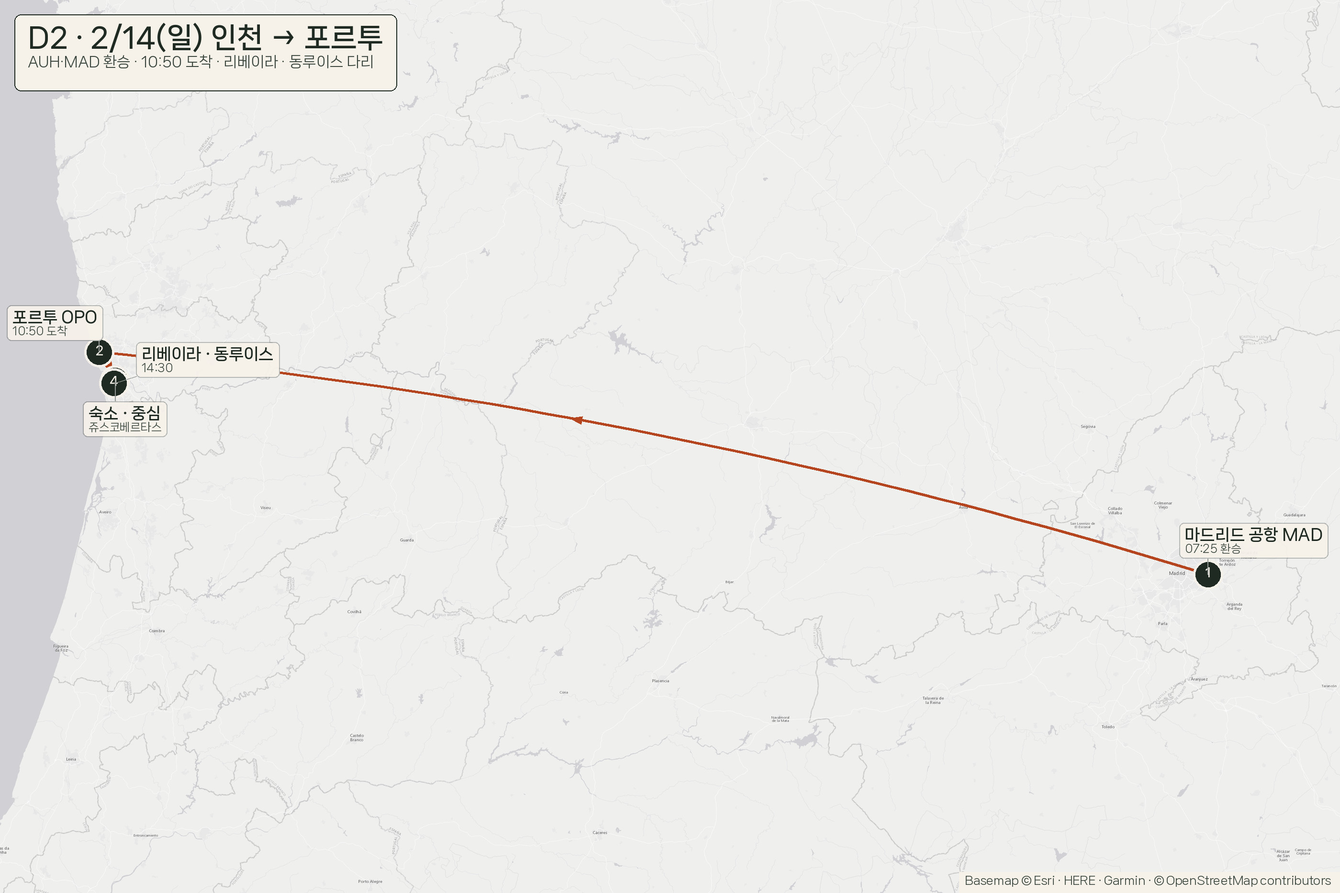
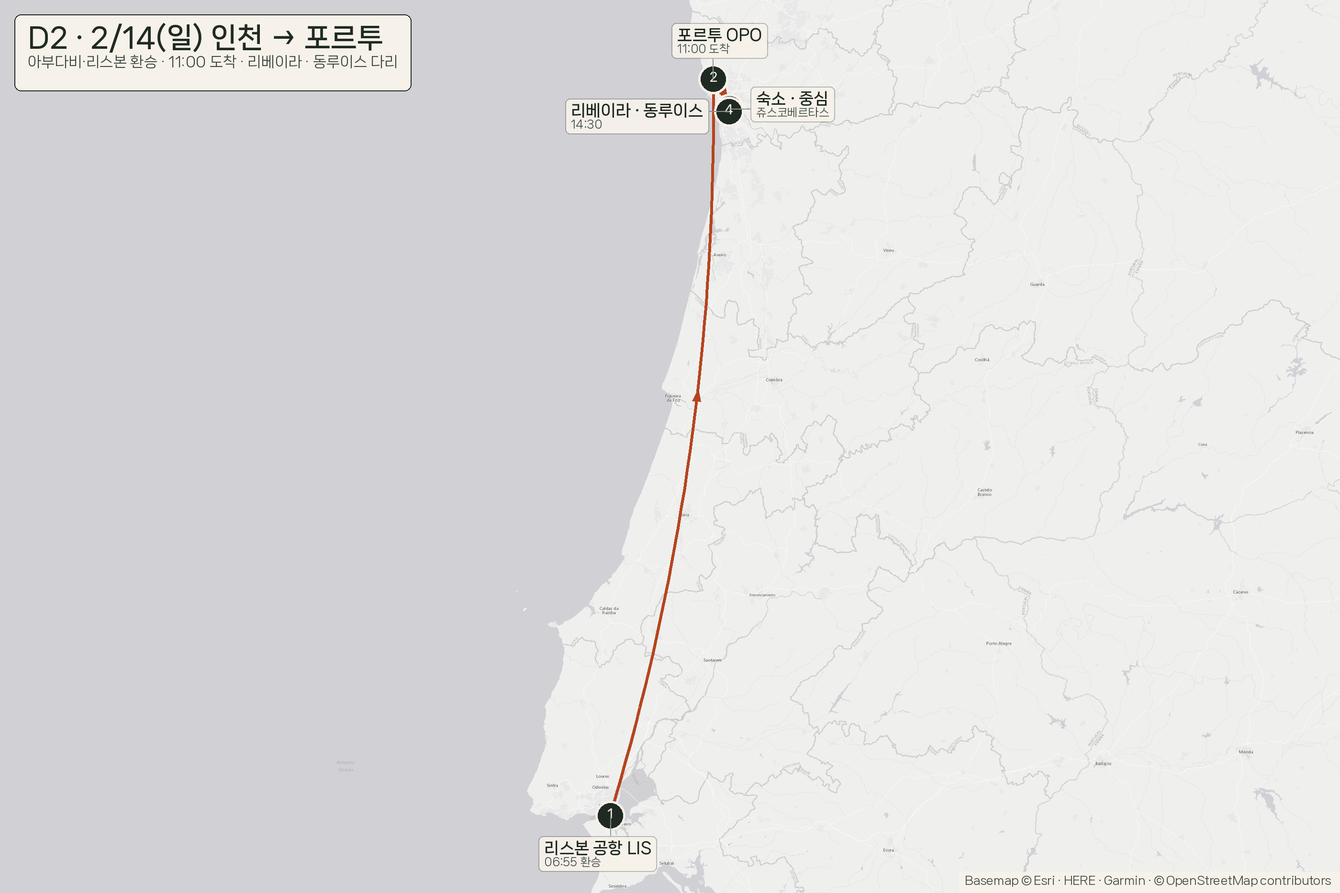
v17.1: 마드리드 경유 제거(ICN→AUH→LIS→OPO) · 오픈조 3,768,692 · 지도 갱신
Discord: https://discord.com/channels/1558830378104529049/1571096194325680131

diff --git a/index.html b/index.html
@@ -159,14 +159,14 @@ footer{border-top:3px solid var(--rule-strong); margin-top:var(--s-8); padding-t
   <h1>포르투에서 시작해 <em>남쪽으로</em>,<br>바르셀로나에서 비행기로</h1>
   <p class="lede">포르투에 내려 도루강의 노을을 보고, 리스본에서 에그타르트로 아침을 열고,
     세비야에서 알카사르를 걷고, 그라나다에서 알함브라를 오르고, 바르셀로나에서 가우디를 만나고 돌아와요.
-    마드리드는 공항 환승만 하고 도시에는 들어가지 않아요.</p>
+    <b>마드리드는 경유하지도 않아요</b> — 아부다비·리스본을 거쳐 포르투로 들어가요.</p>
   <figure class="bleed reveal">
     <img src="img/00-전체동선.jpg" alt="전체 동선 지도 — 포르투·리스본·세비야·그라나다·바르셀로나">
   </figure>
   <dl class="figures">
-    <div><dt>총액 · 2인</dt><dd>7,573,533<small>원 (1인 3,786,766)</small></dd></div>
+    <div><dt>총액 · 2인</dt><dd>7,594,133<small>원 (1인 3,797,066)</small></dd></div>
     <div><dt>현지 지출</dt><dd>3,425,441<small>항공 제외</small></dd></div>
-    <div><dt>항공 · 2인</dt><dd>3,748,092<small>가는편 + 오는편</small></dd></div>
+    <div><dt>항공 · 2인</dt><dd>3,768,692<small>가는편 + 오는편</small></dd></div>
     <div><dt>일수</dt><dd>9박 10일<small>5도시 · 이동 6회</small></dd></div>
     <div><dt>환율</dt><dd>1,551<small>원 / € (3개월 평균)</small></dd></div>
   </dl>
@@ -178,7 +178,7 @@ footer{border-top:3px solid var(--rule-strong); margin-top:var(--s-8); padding-t
   <div class="route"><div class="stop">
         <span class="when">2/14–16 · 2박</span>
         <span class="name">포르투</span>
-        <span class="note">MAD 환승 1h15 · 리베이라 · 포트와인</span>
+        <span class="note">AUH·LIS 환승 · 리베이라 · 포트와인</span>
         <span class="price">78,757 <em>원/박</em></span>
       </div><div class="stop">
         <span class="when">2/16–17 · 1박</span>
@@ -214,11 +214,11 @@ footer{border-top:3px solid var(--rule-strong); margin-top:var(--s-8); padding-t
         <td class="w"><a href="itinerary.html#day-1">인천 → 포르투</a>
           <small>ICN 18:00 출발 · 아부다비 경유</small></td>
         <td class="dt">2/13 (토)</td>
-        <td class="num">1,691,400</td>
+        <td class="num">1,712,000</td>
       </tr><tr>
         <td class="t">D2 · 2/14(일)</td>
         <td class="w"><a href="itinerary.html#day-2">포르투 — 도착</a>
-          <small>MAD 환승 → OPO 10:50 · 리베이라</small></td>
+          <small>AUH·LIS 환승 → OPO 11:00 · 리베이라</small></td>
         <td class="dt">2/14 (일)</td>
         <td class="num">219,757</td>
       </tr><tr>
@@ -282,13 +282,13 @@ footer{border-top:3px solid var(--rule-strong); margin-top:var(--s-8); padding-t
 <section class="block">
   <div class="wrap"><h2>날짜별 지도 — 크게 보기</h2>
   <p class="sub">각 날짜의 동선을 지도 위에 번호로 얹었어요. 누르면 그날의 시각표로 넘어가요.</p></div>
-  <div class="wrap"><div class="gallery"><figure><a href="itinerary.html#day-2"><img src="img/D02-포르투도착.jpg" alt="D2 · 2/14(일) 2/14 (일) 포르투 — 도착 지도" loading="lazy"></a><figcaption>D2 · 2/14 (일) — 포르투 — 도착<small>MAD 환승 → OPO 10:50 · 리베이라</small></figcaption></figure><figure><a href="itinerary.html#day-3"><img src="img/D03-포르투.jpg" alt="D3 · 2/15(월) 2/15 (월) 포르투 — 위에서 아래로 지도" loading="lazy"></a><figcaption>D3 · 2/15 (월) — 포르투 — 위에서 아래로<small>렐루 서점 · 모루 정원 일몰 · 유람선</small></figcaption></figure><figure><a href="itinerary.html#day-4"><img src="img/D04-포르투리스본.jpg" alt="D4 · 2/16(화) 2/16 (화) 포르투 → 리스본 지도" loading="lazy"></a><figcaption>D4 · 2/16 (화) — 포르투 → 리스본<small>CP 기차 3h → 리스본 · 벨렝 · 파두</small></figcaption></figure><figure><a href="itinerary.html#day-5"><img src="img/D05-리스본세비야.jpg" alt="D5 · 2/17(수) 2/17 (수) 리스본 → 세비야 지도" loading="lazy"></a><figcaption>D5 · 2/17 (수) — 리스본 → 세비야<small>알사 버스 6h → 세비야 · 대성당</small></figcaption></figure><figure><a href="itinerary.html#day-6"><img src="img/D06-세비야.jpg" alt="D6 · 2/18(목) 2/18 (목) 세비야 — 알카사르 & 스페인 광장 지도" loading="lazy"></a><figcaption>D6 · 2/18 (목) — 세비야 — 알카사르 & 스페인 광장<small>레알 알카사르 · 스페인 광장 · 트리아나</small></figcaption></figure><figure><a href="itinerary.html#day-7"><img src="img/D07-세비야그라나다.jpg" alt="D7 · 2/19(금) 2/19 (금) 세비야 → 그라나다 지도" loading="lazy"></a><figcaption>D7 · 2/19 (금) — 세비야 → 그라나다<small>알사 버스 3h → 그라나다 · 알바이신</small></figcaption></figure><figure><a href="itinerary.html#day-8"><img src="img/D08-그라나다알함브라.jpg" alt="D8 · 2/20(토) 2/20 (토) 그라나다 — 알함브라 지도" loading="lazy"></a><figcaption>D8 · 2/20 (토) — 그라나다 — 알함브라<small>알함브라 나사리 궁전 · 헤네랄리페</small></figcaption></figure><figure><a href="itinerary.html#day-9"><img src="img/D09-그라나다.jpg" alt="D9 · 2/21(일) 2/21 (일) 그라나다 — 알바이신 하루 지도" loading="lazy"></a><figcaption>D9 · 2/21 (일) — 그라나다 — 알바이신 하루<small>알바이신 하루 · 산니콜라스 전망대</small></figcaption></figure><figure><a href="itinerary.html#day-10"><img src="img/D10-그라나다바르셀로나.jpg" alt="D10 2/22 (월) 그라나다 → 바르셀로나 지도" loading="lazy"></a><figcaption>D10 · 2/22 (월) — 그라나다 → 바르셀로나<small>GRX 09:05 → BCN · 사그라다 · 구엘</small></figcaption></figure><figure><a href="itinerary.html#day-11"><img src="img/D11-바르셀로나출국.jpg" alt="D11 2/23 (화) 바르셀로나 → 인천 지도" loading="lazy"></a><figcaption>D11 · 2/23 (화) — 바르셀로나 → 인천<small>람블라스 · 17:55 출국 → 2/24 17:20 인천</small></figcaption></figure></div></div>
+  <div class="wrap"><div class="gallery"><figure><a href="itinerary.html#day-2"><img src="img/D02-포르투도착.jpg" alt="D2 · 2/14(일) 2/14 (일) 포르투 — 도착 지도" loading="lazy"></a><figcaption>D2 · 2/14 (일) — 포르투 — 도착<small>AUH·LIS 환승 → OPO 11:00 · 리베이라</small></figcaption></figure><figure><a href="itinerary.html#day-3"><img src="img/D03-포르투.jpg" alt="D3 · 2/15(월) 2/15 (월) 포르투 — 위에서 아래로 지도" loading="lazy"></a><figcaption>D3 · 2/15 (월) — 포르투 — 위에서 아래로<small>렐루 서점 · 모루 정원 일몰 · 유람선</small></figcaption></figure><figure><a href="itinerary.html#day-4"><img src="img/D04-포르투리스본.jpg" alt="D4 · 2/16(화) 2/16 (화) 포르투 → 리스본 지도" loading="lazy"></a><figcaption>D4 · 2/16 (화) — 포르투 → 리스본<small>CP 기차 3h → 리스본 · 벨렝 · 파두</small></figcaption></figure><figure><a href="itinerary.html#day-5"><img src="img/D05-리스본세비야.jpg" alt="D5 · 2/17(수) 2/17 (수) 리스본 → 세비야 지도" loading="lazy"></a><figcaption>D5 · 2/17 (수) — 리스본 → 세비야<small>알사 버스 6h → 세비야 · 대성당</small></figcaption></figure><figure><a href="itinerary.html#day-6"><img src="img/D06-세비야.jpg" alt="D6 · 2/18(목) 2/18 (목) 세비야 — 알카사르 & 스페인 광장 지도" loading="lazy"></a><figcaption>D6 · 2/18 (목) — 세비야 — 알카사르 & 스페인 광장<small>레알 알카사르 · 스페인 광장 · 트리아나</small></figcaption></figure><figure><a href="itinerary.html#day-7"><img src="img/D07-세비야그라나다.jpg" alt="D7 · 2/19(금) 2/19 (금) 세비야 → 그라나다 지도" loading="lazy"></a><figcaption>D7 · 2/19 (금) — 세비야 → 그라나다<small>알사 버스 3h → 그라나다 · 알바이신</small></figcaption></figure><figure><a href="itinerary.html#day-8"><img src="img/D08-그라나다알함브라.jpg" alt="D8 · 2/20(토) 2/20 (토) 그라나다 — 알함브라 지도" loading="lazy"></a><figcaption>D8 · 2/20 (토) — 그라나다 — 알함브라<small>알함브라 나사리 궁전 · 헤네랄리페</small></figcaption></figure><figure><a href="itinerary.html#day-9"><img src="img/D09-그라나다.jpg" alt="D9 · 2/21(일) 2/21 (일) 그라나다 — 알바이신 하루 지도" loading="lazy"></a><figcaption>D9 · 2/21 (일) — 그라나다 — 알바이신 하루<small>알바이신 하루 · 산니콜라스 전망대</small></figcaption></figure><figure><a href="itinerary.html#day-10"><img src="img/D10-그라나다바르셀로나.jpg" alt="D10 2/22 (월) 그라나다 → 바르셀로나 지도" loading="lazy"></a><figcaption>D10 · 2/22 (월) — 그라나다 → 바르셀로나<small>GRX 09:05 → BCN · 사그라다 · 구엘</small></figcaption></figure><figure><a href="itinerary.html#day-11"><img src="img/D11-바르셀로나출국.jpg" alt="D11 2/23 (화) 바르셀로나 → 인천 지도" loading="lazy"></a><figcaption>D11 · 2/23 (화) — 바르셀로나 → 인천<small>람블라스 · 17:55 출국 → 2/24 17:20 인천</small></figcaption></figure></div></div>
 </section>
 
 <section class="block wrap">
   <div class="note">
-    <b>2/13 밤 출국 → 2/24 인천 도착.</b> 오픈조라 들어가는 곳(포르투)과 나오는 곳(바르셀로나)이 달라 국제선이 <b>2인 3,748,092원</b>이에요.
-    포르투 → 리스본 → 세비야 → 그라나다 → 바르셀로나로 한 방향으로 내려가는 <b>9박 10일</b> — 마드리드는 공항 환승만 해요.
+    <b>2/13 밤 출국 → 2/24 인천 도착.</b> 오픈조라 들어가는 곳(포르투)과 나오는 곳(바르셀로나)이 달라 국제선이 <b>2인 3,768,692원</b>이에요.
+    포르투 → 리스본 → 세비야 → 그라나다 → 바르셀로나로 한 방향으로 내려가는 <b>9박 10일</b> — 마드리드는 들르지 않아요.
   </div>
 </section>
 
@@ -305,7 +305,8 @@ footer{border-top:3px solid var(--rule-strong); margin-top:var(--s-8); padding-t
         <li><b>숙소는 11/14 재조회 값</b>이에요 — 9박 합계 <b>798,790원</b>. 에어비앤비·아고다는 이번 조회에서 차단돼 구글 호텔만 반영했어요.</li>
         <li><b>리스본 → 세비야 구간</b>이 이 루트의 유일한 약점이에요 — 버스 6시간(2인 11만원 추정). 비행은 22만원대라 버스를 골랐어요.</li>
         <li><b>알함브라 나사리 궁전은 2/20 오전</b>(토요일)으로 잡았어요 — 주말이라 매진이 빨라 티켓 오픈 즉시 예약이 안전해요.</li>
-        <li><b>오픈조는 왕복보다 비싸요</b> — 2인 3,748,092원(왕복 228만 대비 +147만). 대신 마드리드로 되돌아가지 않아 마지막 날이 편해요.</li>
+        <li><b>오픈조는 왕복보다 비싸요</b> — 2인 3,768,692원. 대신 마드리드로 되돌아가지 않아 마지막 날이 편해요.</li>
+        <li><b>마드리드 경유편은 쓰지 않았어요</b> — 마드리드 경유편이 1,606,400원으로 2만원 싸지만, "마드리드 안 들름" 조건에 맞춰 아부다비+리스본 경유(1,627,000)를 골랐어요.</li>
       </ul>
     </div>
   </div>
@@ -318,19 +319,19 @@ footer{border-top:3px solid var(--rule-strong); margin-top:var(--s-8); padding-t
       <table class="ledger">
         <caption>2인 기준 · 상세는 일차별 일정</caption>
         <thead><tr><th scope="col">항목</th><th class="num" scope="col">2인</th></tr></thead>
-        <tbody><tr><td>항공 (마드리드 왕복, 11/14 실조회)</td><td class="num">3,748,092</td></tr><tr><td>숙박 9박</td><td class="num">798,790</td></tr><tr><td>식비 10일 (실제 메뉴)</td><td class="num">1,561,000</td></tr><tr><td>입장료·시내교통</td><td class="num">633,000</td></tr><tr><td>도시 간 이동 (기차·항공·버스)</td><td class="num">432,651</td></tr><tr><td>여유·기념품</td><td class="num">400,000</td></tr><tr class="sum"><td>합계 — 2인</td><td class="num">7,573,533</td></tr></tbody>
+        <tbody><tr><td>항공 (마드리드 왕복, 11/14 실조회)</td><td class="num">3,768,692</td></tr><tr><td>숙박 9박</td><td class="num">798,790</td></tr><tr><td>식비 10일 (실제 메뉴)</td><td class="num">1,561,000</td></tr><tr><td>입장료·시내교통</td><td class="num">633,000</td></tr><tr><td>도시 간 이동 (기차·항공·버스)</td><td class="num">432,651</td></tr><tr><td>여유·기념품</td><td class="num">400,000</td></tr><tr class="sum"><td>합계 — 2인</td><td class="num">7,594,133</td></tr></tbody>
       </table>
-      <p class="sub">1,000만원 상한 대비 여유는 2,426,467원이에요. 환율이 100원 움직이면 2인 예산은 약 66만원 달라져요.</p>
+      <p class="sub">1,000만원 상한 대비 여유는 2,405,867원이에요. 환율이 100원 움직이면 2인 예산은 약 66만원 달라져요.</p>
     </div>
     <div>
       <h2>발권 시점 — 지금이 적기예요</h2>
-      <p class="sub">2/13 ICN→OPO + 2/23 BCN→ICN 오픈조가 지금 <b>2인 3,748,092원</b>이에요.
+      <p class="sub">2/13 ICN→OPO + 2/23 BCN→ICN 오픈조가 지금 <b>2인 3,768,692원</b>이에요.
         출발 6~8주 전부터 값이 오르는 구간이라, 지금 결제가 가장 편해요.</p>
       <table class="ledger">
         <caption>11월 항공 (2인, 오픈조)</caption>
         <thead><tr><th scope="col">상황</th><th class="num" scope="col">가격</th></tr></thead>
         <tbody>
-          <tr><td>지금 (2026-11-14 실조회)</td><td class="num">3,748,092</td></tr>
+          <tr><td>지금 (2026-11-14 실조회)</td><td class="num">3,768,692</td></tr>
           <tr><td>특가 일부 소진</td><td class="num">390~410만</td></tr>
           <tr><td>성수 진입</td><td class="num">440만</td></tr>
         </tbody>
@@ -349,9 +350,9 @@ footer{border-top:3px solid var(--rule-strong); margin-top:var(--s-8); padding-t
     <caption>여행 + 쇼핑 (2인)</caption>
     <thead><tr><th scope="col">후보</th><th class="num" scope="col">쇼핑액</th>
       <th class="num" scope="col">여행+쇼핑</th><th class="num" scope="col">1,000만</th><th class="num" scope="col">1,200만</th></tr></thead>
-    <tbody><tr><td data-label="후보">없음</td><td class="num" data-label="쇼핑액">0</td><td class="num" data-label="여행+쇼핑">7,573,533</td><td class="num" data-label="1,000만 이내">가능</td><td class="num" data-label="1,200만 이내">가능</td></tr><tr><td data-label="후보">까르띠에 다무르 펜던트 SM  (€1,520)</td><td class="num" data-label="쇼핑액">2,103,938</td><td class="num" data-label="여행+쇼핑">9,677,471</td><td class="num" data-label="1,000만 이내">가능</td><td class="num" data-label="1,200만 이내">가능</td></tr><tr><td data-label="후보">까르띠에 트리니티 이어링 플레인  (€2,040)</td><td class="num" data-label="쇼핑액">2,823,707</td><td class="num" data-label="여행+쇼핑">10,397,240</td><td class="num" data-label="1,000만 이내">—</td><td class="num" data-label="1,200만 이내">가능</td></tr><tr><td data-label="후보">불가리 세르펜티 바이퍼 링  (€2,770)</td><td class="num" data-label="쇼핑액">3,834,151</td><td class="num" data-label="여행+쇼핑">11,407,684</td><td class="num" data-label="1,000만 이내">—</td><td class="num" data-label="1,200만 이내">가능</td></tr><tr><td data-label="후보">반클리프 알함브라 펜던트 오닉스  (€3,100)</td><td class="num" data-label="쇼핑액">4,290,927</td><td class="num" data-label="여행+쇼핑">11,864,460</td><td class="num" data-label="1,000만 이내">—</td><td class="num" data-label="1,200만 이내">가능</td></tr><tr class=sum><td data-label="후보">까르띠에 트리니티 이어링 클래식  (€3,800)</td><td class="num" data-label="쇼핑액">5,259,846</td><td class="num" data-label="여행+쇼핑">12,833,379</td><td class="num" data-label="1,000만 이내">—</td><td class="num" data-label="1,200만 이내">초과</td></tr></tbody>
+    <tbody><tr><td data-label="후보">없음</td><td class="num" data-label="쇼핑액">0</td><td class="num" data-label="여행+쇼핑">7,594,133</td><td class="num" data-label="1,000만 이내">가능</td><td class="num" data-label="1,200만 이내">가능</td></tr><tr><td data-label="후보">까르띠에 다무르 펜던트 SM  (€1,520)</td><td class="num" data-label="쇼핑액">2,103,938</td><td class="num" data-label="여행+쇼핑">9,698,071</td><td class="num" data-label="1,000만 이내">가능</td><td class="num" data-label="1,200만 이내">가능</td></tr><tr><td data-label="후보">까르띠에 트리니티 이어링 플레인  (€2,040)</td><td class="num" data-label="쇼핑액">2,823,707</td><td class="num" data-label="여행+쇼핑">10,417,840</td><td class="num" data-label="1,000만 이내">—</td><td class="num" data-label="1,200만 이내">가능</td></tr><tr><td data-label="후보">불가리 세르펜티 바이퍼 링  (€2,770)</td><td class="num" data-label="쇼핑액">3,834,151</td><td class="num" data-label="여행+쇼핑">11,428,284</td><td class="num" data-label="1,000만 이내">—</td><td class="num" data-label="1,200만 이내">가능</td></tr><tr><td data-label="후보">반클리프 알함브라 펜던트 오닉스  (€3,100)</td><td class="num" data-label="쇼핑액">4,290,927</td><td class="num" data-label="여행+쇼핑">11,885,060</td><td class="num" data-label="1,000만 이내">—</td><td class="num" data-label="1,200만 이내">가능</td></tr><tr class=sum><td data-label="후보">까르띠에 트리니티 이어링 클래식  (€3,800)</td><td class="num" data-label="쇼핑액">5,259,846</td><td class="num" data-label="여행+쇼핑">12,853,979</td><td class="num" data-label="1,000만 이내">—</td><td class="num" data-label="1,200만 이내">초과</td></tr></tbody>
   </table>
-  <p class="sub">트리니티 이어링 클래식(€3,800)까지 넣으면 12,833,379원이라 절대 상한 1,200만원을 넘어요.
+  <p class="sub">트리니티 이어링 클래식(€3,800)까지 넣으면 12,853,979원이라 절대 상한 1,200만원을 넘어요.
     1,000만원 안에서 주얼리를 넣으시려면 트리니티 이어링 플레인(€2,040)까지가 한계예요.</p>
 </section>
 <section class="block wrap">

diff --git a/itinerary.html b/itinerary.html
@@ -201,8 +201,8 @@ body::after{
   <p class="lede">리스본에서 바르셀로나까지 네 도시를 아흐레에 담았어요. 하루에 이동 한 번, 관광 두 묶음.
     마지막 사흘은 바르셀로나에 통째로 남겨 두었고, 값의 근거도 줄마다 옆에 적어 두었어요.</p>
   <dl class="figures">
-    <div><dt>총액 · 2인</dt><dd>7,573,533<small>원 (1인 3,786,766)</small></dd></div>
-    <div><dt>현지 지출</dt><dd>4,329,633<small>항공 제외</small></dd></div>
+    <div><dt>총액 · 2인</dt><dd>7,594,133<small>원 (1인 3,797,066)</small></dd></div>
+    <div><dt>현지 지출</dt><dd>4,350,233<small>항공 제외</small></dd></div>
     <div><dt>항공 · 2인</dt><dd>2,843,900<small>가는편 + 오는편</small></dd></div>
     <div><dt>여유·기념품</dt><dd>400,000<small>일자별 합계에 없음</small></dd></div>
     <div><dt>환율</dt><dd>1,551<small>원 / € (3개월 평균)</small></dd></div>
@@ -239,13 +239,13 @@ body::after{
 <tr class=""><td class="t">15:00</td><td class="what">집 → 인천공항 (공항버스 2인)</td><td class="src">추정</td><td class="cost">30,000</td></tr>
 <tr class=""><td class="t">16:00</td><td class="what">공항 저녁 (커피·샌드위치)</td><td class="src">추정</td><td class="cost">20,000</td></tr>
 <tr class="free"><td class="t">17:00</td><td class="what">체크인 · 수하물 · 출국심사</td><td class="src"></td><td class="cost">—</td></tr>
-<tr class=""><td class="t">18:00</td><td class="what">ICN 출발 · <b>가는편 1,606,400원(2인)</b> · <a href="https://www.google.com/travel/flights?hl=ko&gl=kr&curr=KRW&q=Flights%20one%20way%20from%20ICN%20to%20OPO%20on%202027-02-13" target="_blank" rel="noopener">구글 항공권 2/13 ICN→OPO · 예약</a></td><td class="src">항공 조회(11/14)</td><td class="cost">1,606,400</td></tr>
+<tr class=""><td class="t">18:00</td><td class="what">ICN 출발 · <b>가는편 1,627,000원(2인)</b> · <a href="https://www.google.com/travel/flights?hl=ko&gl=kr&curr=KRW&q=Flights%20one%20way%20from%20ICN%20to%20OPO%20on%202027-02-13" target="_blank" rel="noopener">구글 항공권 2/13 ICN→OPO · 예약</a></td><td class="src">항공 조회(11/14)</td><td class="cost">1,627,000</td></tr>
 <tr class=""><td class="t">—</td><td class="what">기내식 두 끼 · 23:15 아부다비 도착</td><td class="src">추정</td><td class="cost">35,000</td></tr>
-<tr class="ledger-sum"><td></td><td>숙박 — · 식비 55,000 · 입장·이동 1,636,400</td><td></td><td class="cost">1,691,400</td></tr>
+<tr class="ledger-sum"><td></td><td>숙박 — · 식비 55,000 · 입장·이동 1,657,000</td><td></td><td class="cost">1,712,000</td></tr>
       </tbody>
     </table>
 
-    <p class="day-stamp"><span>이 날 합계</span><b>1,691,400</b></p>
+    <p class="day-stamp"><span>이 날 합계</span><b>1,712,000</b></p>
   </div>
 </article>
 
@@ -273,10 +273,10 @@ body::after{
       </thead>
       <tbody>
 <tr class="ledger-stay"><td class="t">—</td><td class="what"><span class="stay-label">숙박</span> 포르투 · 쥬스코베르타스 부티크 호텔 (4.4·351후기·중심)</td><td class="src">hotel-api 실조회(11/14)</td><td class="cost">78,757</td></tr>
-<tr class="free"><td class="t">02:35</td><td class="what">아부다비(AUH) 환승 3시간 20분</td><td class="src">항공 조회(11/14)</td><td class="cost">—</td></tr>
-<tr class="free"><td class="t">07:25</td><td class="what">마드리드(MAD) 도착 · 환승</td><td class="src">항공 조회(11/14)</td><td class="cost">—</td></tr>
-<tr class="free"><td class="t">10:35</td><td class="what">MAD → 포르투(OPO) 1시간 15분</td><td class="src">항공 조회(11/14)</td><td class="cost">—</td></tr>
-<tr class=""><td class="t">11:50</td><td class="what">포르투 도착 → 메트로 → 숙소 (짐 보관)</td><td class="src">공식 요금</td><td class="cost">6,000</td></tr>
+<tr class="free"><td class="t">02:00</td><td class="what">아부다비(AUH) 환승 2시간 45분</td><td class="src">항공 조회(11/14)</td><td class="cost">—</td></tr>
+<tr class="free"><td class="t">06:55</td><td class="what">리스본(LIS) 도착 · 환승 3시간 5분 (마드리드 경유 없음)</td><td class="src">항공 조회(11/14)</td><td class="cost">—</td></tr>
+<tr class="free"><td class="t">10:00</td><td class="what">LIS → 포르투(OPO) 1시간</td><td class="src">항공 조회(11/14)</td><td class="cost">—</td></tr>
+<tr class=""><td class="t">11:00</td><td class="what">포르투 도착 → 메트로 → 숙소 (짐 보관)</td><td class="src">공식 요금</td><td class="cost">6,000</td></tr>
 <tr class=""><td class="t">12:40</td><td class="what">점심 — 볼량 시장 식당가 (2인 €25)</td><td class="src">실제 메뉴</td><td class="cost">40,000</td></tr>
 <tr class="free"><td class="t">14:30</td><td class="what">리베이라 지구 · 동 루이스 1세 다리 상층</td><td class="src"></td><td class="cost">—</td></tr>
 <tr class="free"><td class="t">16:30</td><td class="what">숙소 체크인 · 짧게 휴식</td><td class="src">hotel-api 실조회(11/14)</td><td class="cost">—</td></tr>
@@ -668,9 +668,9 @@ body::after{
 <section class="tail wrap">
   <div>
     <h2>합계 맞추기</h2>
-    <p><b>일자별 합계</b> 7,173,533원 = 현지 4,329,633 + 항공 2,843,900.</p>
+    <p><b>일자별 합계</b> 7,194,133원 = 현지 4,350,233 + 항공 2,843,900.</p>
     <p><b>여유·기념품</b> 400,000원은 일자별 표에 없다(특정 날에 배정하지 않음).</p>
-    <p><b>총액</b> <b>7,573,533원</b> (1인 3,786,766).</p>
+    <p><b>총액</b> <b>7,594,133원</b> (1인 3,797,066).</p>
     <p>요약 페이지의 총액과 같은 값이에요.</p>
   </div>
   <div>

diff --git a/reservations.html b/reservations.html
@@ -118,16 +118,16 @@ tr.detail td{border-bottom:2px solid var(--rule-strong);padding-top:0}
 <tr>
   <td class="n">1</td>
   <td class="open"><b>2026-11-01</b><small>확인 시작</small></td>
-  <td class="what"><b>항공 인천 → 포르투 (ICN→OPO, 에티하드+에어유로파)</b><small>방문 2027-02-13 (토) 18:00</small></td>
+  <td class="what"><b>항공 인천 → 포르투 (ICN→OPO, 에티하드+TAP)</b><small>방문 2027-02-13 (토) 18:00</small></td>
   <td class="rule">발권 목표일 — 지금 결제하시면 돼요</td>
-  <td class="price">1,606,400 (2인 · 2026-11-14 조회)</td>
+  <td class="price">1,627,000 (2인 · 2026-11-14 조회)</td>
   <td class="site">google.com/travel/flights · etihad.com</td>
 </tr>
 <tr class="detail">
   <td></td>
   <td colspan="5">
     <p class="need"><b>준비물</b> — 여권 영문명 · 카드</p>
-    <p class="warn">2/13 18:00 ICN → AUH 23:15 → MAD 07:25 → <b>OPO 10:50</b>. 마드리드는 <b>환승만</b>이에요. 수하물이 포르투까지 직통인지 확인하세요.</p>
+    <p class="warn">2/13 18:00 ICN → AUH 23:15 → LIS 06:55 → <b>OPO 11:00</b>. <b>마드리드 경유 없음</b>. 리스본 환승 3시간 5분, 수하물 포르투 직통인지 확인하세요.</p>
   </td>
 </tr>
 
